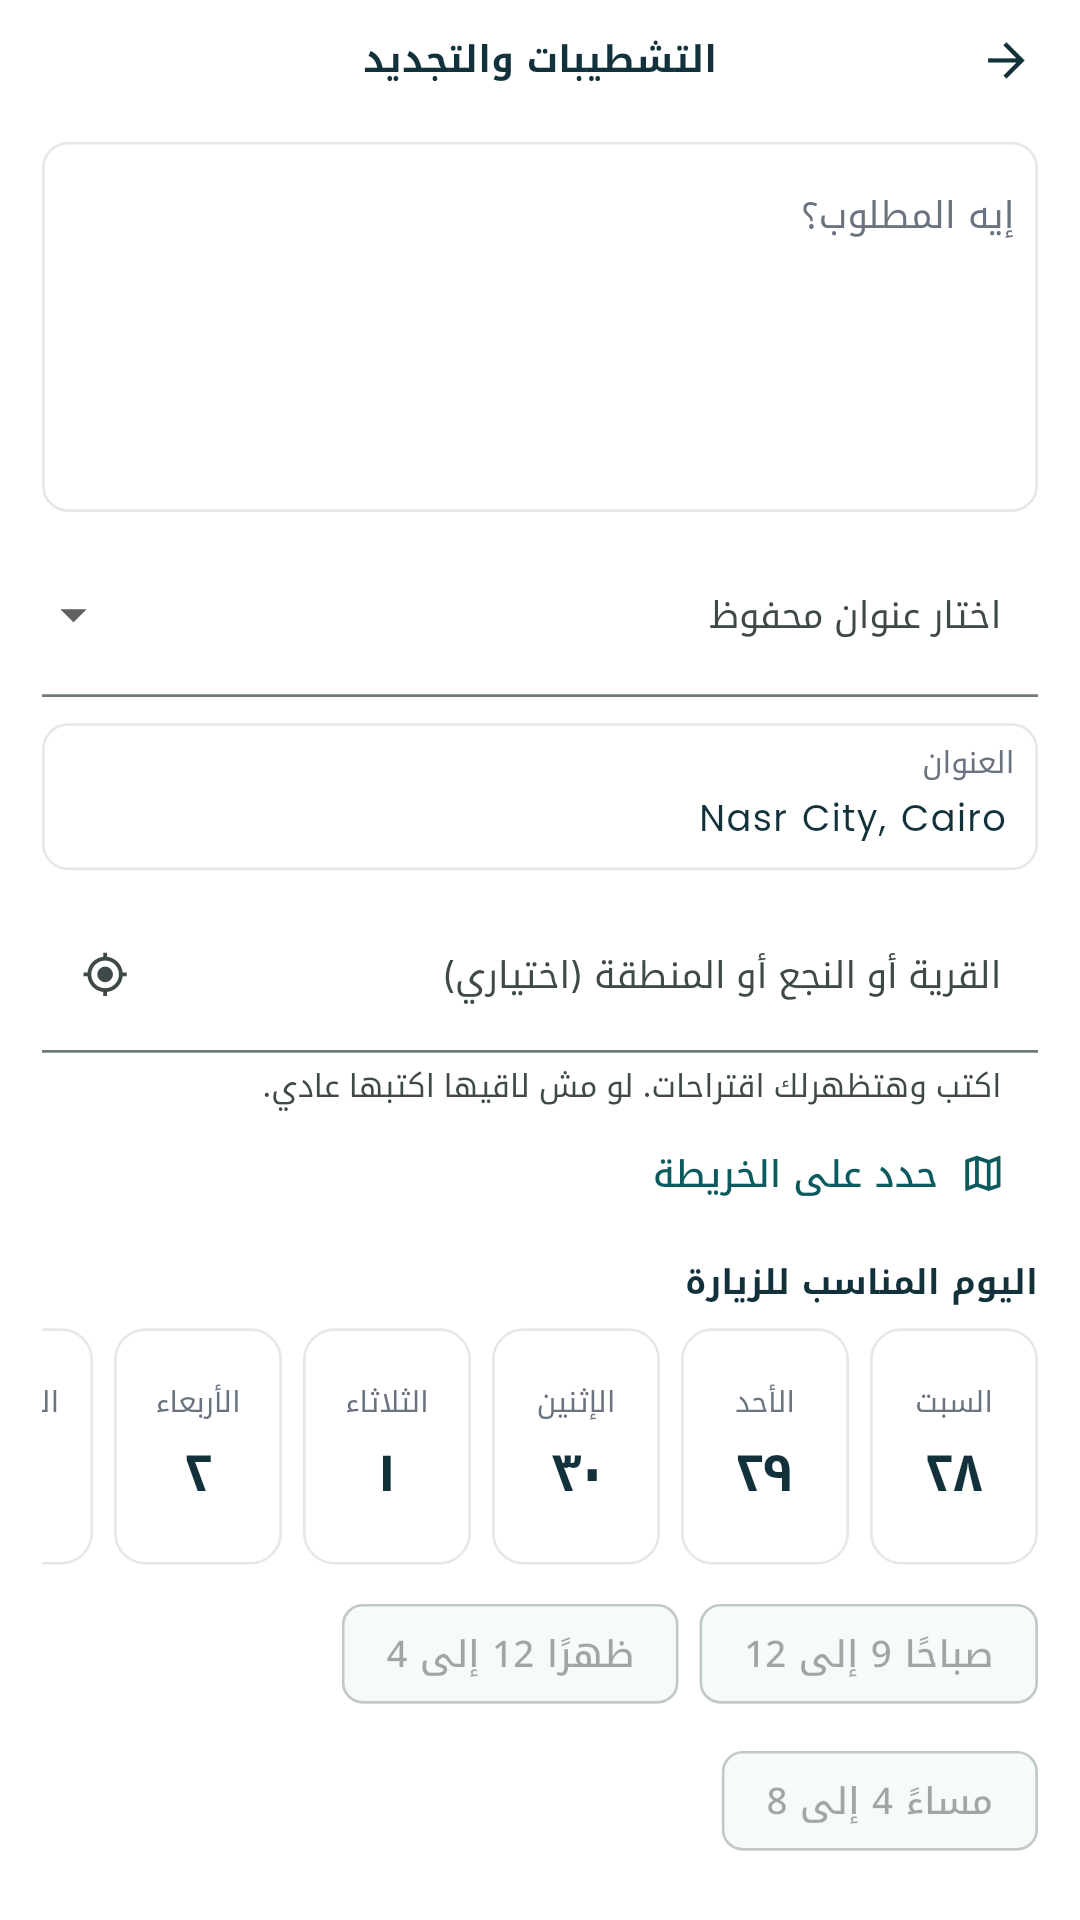
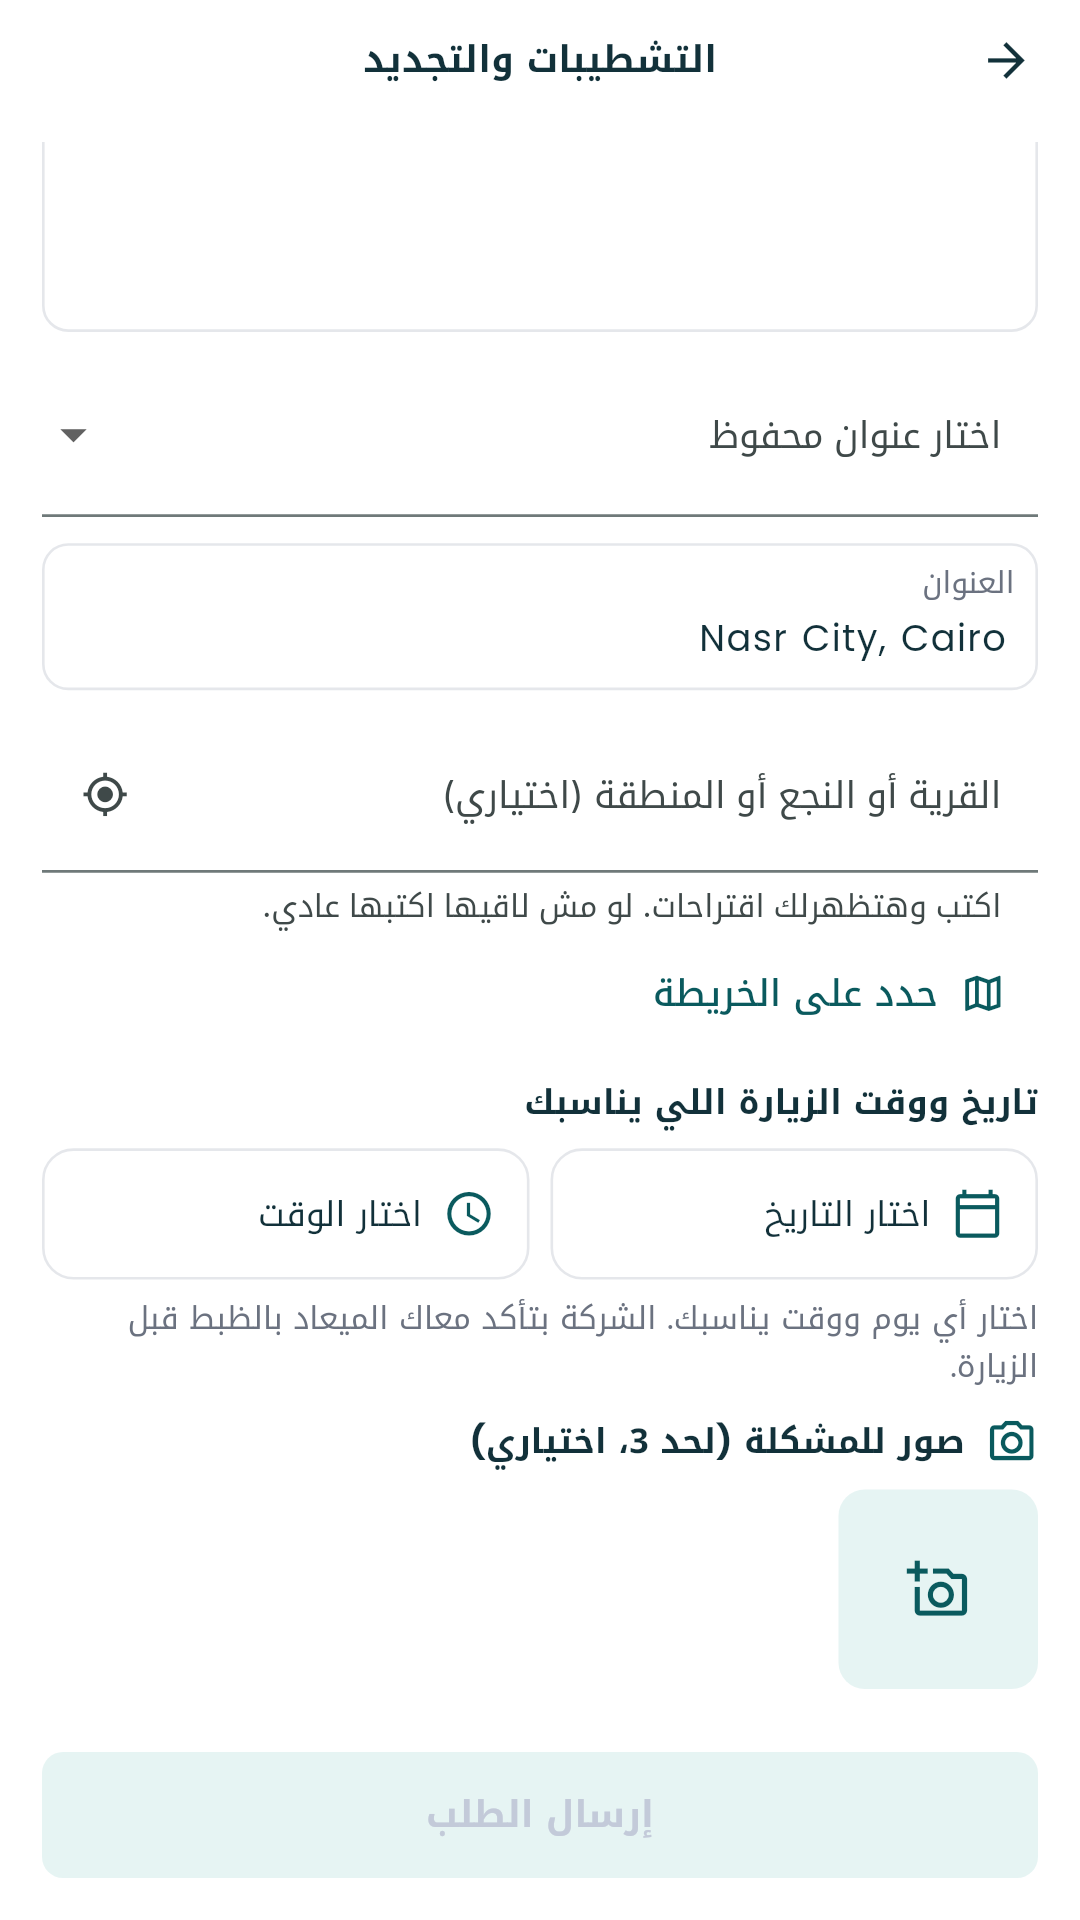
Free date and time visit picker; worker stores visit; admin shows it

diff --git a/mobile/test/store_shots_test.dart b/mobile/test/store_shots_test.dart
@@ -34,10 +34,11 @@ void main() {
       t.view.physicalSize = const Size(1080, 1920);
       t.view.devicePixelRatio = 2.625;
       await t.pump();
-      Future<void> open(Widget w, String name) async {
+      Future<void> open(Widget w, String name, {Future<void> Function()? pre}) async {
         final context = t.element(find.byType(Navigator).first);
         Navigator.of(context).push(MaterialPageRoute(builder: (_) => w));
         await settle(t);
+        if (pre != null) await pre();
         await store(t, 'store_${lang}_$name');
         Navigator.of(t.element(find.byType(Navigator).first)).pop();
         await settle(t);
@@ -49,7 +50,11 @@ void main() {
       final services = await Api.services();
       final reqs = await Api.requests();
       await open(const HomeShell(), '1_home');
-      await open(NewRequestScreen(service: services.first as Map), '2_new_request');
+      await open(NewRequestScreen(service: services.first as Map), '2_new_request', pre: () async {
+        await t.dragUntilVisible(find.byIcon(Icons.access_time), find.byType(Scrollable).first, const Offset(0, -200));
+        await t.drag(find.byType(Scrollable).first, const Offset(0, -150));
+        await settle(t);
+      });
       await open(const ProjectsTab(), '3_requests');
       await open(ChatScreen(request: reqs.first as Map), '4_chat');
       await open(const MoreTab(), '5_more');
